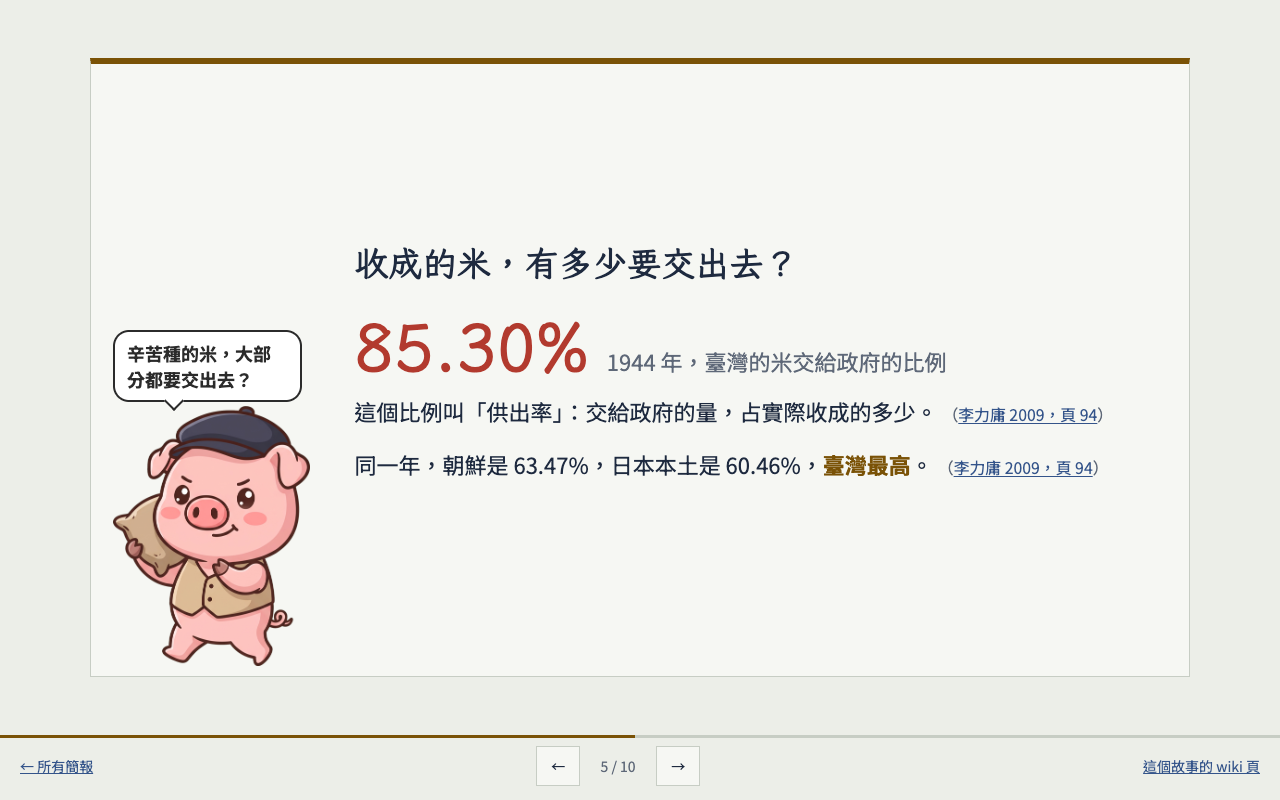
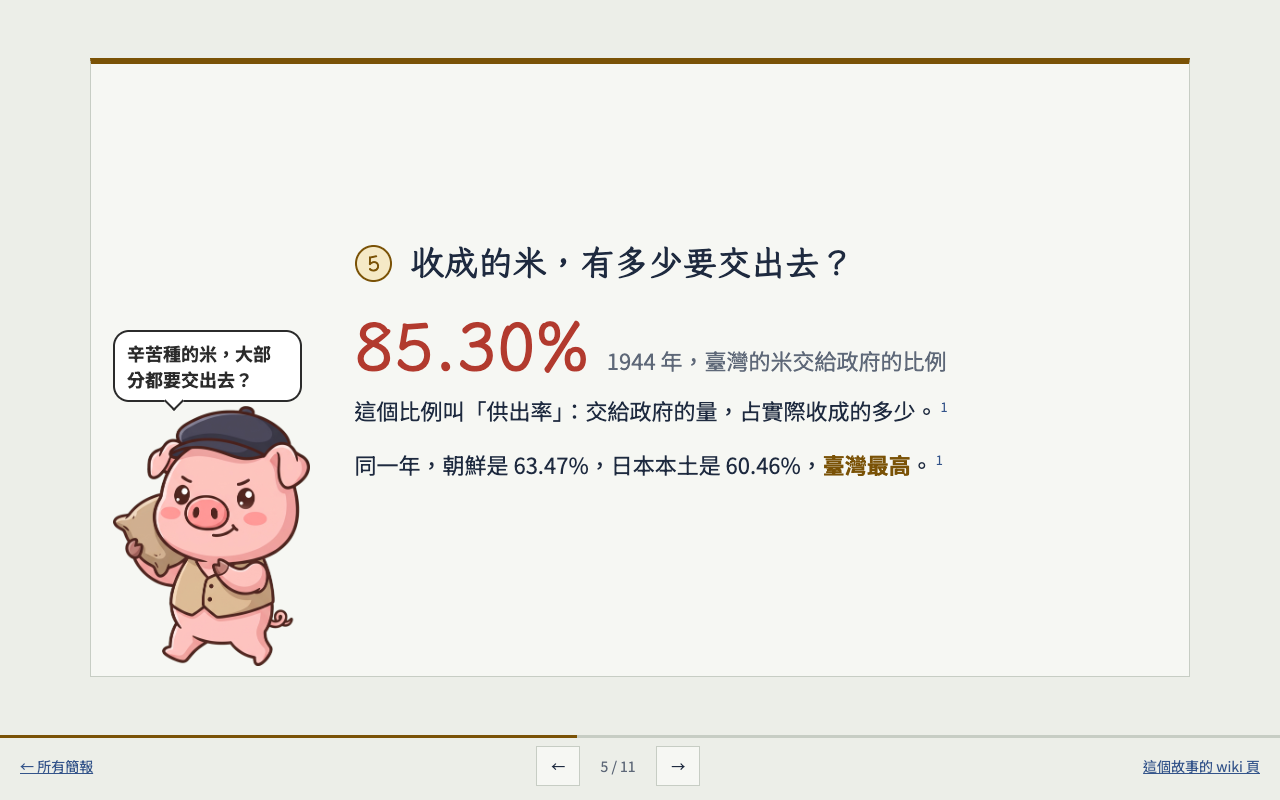
出處改為上標編號＋最後一頁資料來源；標題加配給印頁碼

diff --git a/slides/t-rice-ration/deck.html b/slides/t-rice-ration/deck.html
@@ -27,10 +27,24 @@ body{display:flex;flex-direction:column;overflow:hidden}
 .inner{flex:1;overflow:hidden;padding:44px 64px;display:flex;flex-direction:column;justify-content:center;font-size:clamp(17px,1.75vw,22px);line-height:1.75}
 h1,h2{font-family:var(--kai);font-weight:700;line-height:1.3;margin:0 0 .7em;text-wrap:balance}
 h1{font-size:2.3em} h2{font-size:1.55em;color:var(--ink)}
-p{margin:0 0 .65em;max-width:40em} strong{color:var(--cat-ink)}
-.cites{font-size:.72em;color:var(--muted);white-space:normal}
-.cite{color:var(--indigo);text-decoration:underline;text-underline-offset:2px}
-.cite:hover{color:var(--ink)}
+p{margin:0 0 .7em;max-width:36em} strong{color:var(--cat-ink)}
+/* 出處：句尾小上標，點了到最後的資料來源頁 */
+.fns{font-size:.58em;line-height:0;margin-left:.15em;font-family:var(--sans);font-weight:400;color:var(--muted)}
+.nb{white-space:nowrap}
+.fn{color:var(--indigo);text-decoration:none;padding:0 .08em}
+.fn:hover{text-decoration:underline}
+/* 頁碼印：每頁標題前一個圓形配給印，全份簡報唯一的裝飾 */
+h2{display:flex;align-items:center;gap:.55em}
+h2 .no{flex:none;width:1.75em;height:1.75em;border-radius:50%;border:2px solid var(--cat-ink);color:var(--cat-ink);display:grid;place-items:center;
+  font-size:.62em;font-variant-numeric:tabular-nums;transform:rotate(-8deg);background:color-mix(in srgb,var(--cat-tint) 45%,transparent)}
+/* 資料來源頁 */
+.layout-sources .inner{font-size:clamp(13px,1.25vw,16px);line-height:1.5;justify-content:flex-start;padding:30px 56px}
+.src-hint{color:var(--muted);font-size:.9em;margin-bottom:.9em}
+ol.srcs{list-style:none;margin:0;padding:0;display:grid;grid-template-columns:1fr 1fr;gap:.7em 2em}
+ol.srcs li{display:grid;grid-template-columns:2em 1fr;gap:.4em}
+.src-no{color:var(--indigo);font-weight:700;font-variant-numeric:tabular-nums}
+.src-t{margin:0;font-weight:700} .src-m{margin:0;color:var(--muted);font-size:.9em}
+.src-m a{color:var(--indigo)}
 /* 封面：配給券 */
 .cover{display:grid;grid-template-columns:1.2fr 1fr;gap:36px;align-items:center;height:100%}
 .ticket{display:flex;gap:22px;align-items:flex-start;background:var(--cat-tint);padding:28px 30px;border-left:2px dashed var(--cat-ink)}
@@ -63,7 +77,7 @@ figcaption{font-size:.8em;color:var(--muted)}
 .nav{display:flex;align-items:center;gap:10px}
 .nav button{font:inherit;color:var(--ink);background:var(--sheet);border:1px solid var(--line);min-width:44px;min-height:40px;cursor:pointer}
 .nav button:disabled{opacity:.4;cursor:default}
-.nav button:focus-visible,.cite:focus-visible,summary:focus-visible{outline:2px solid var(--indigo);outline-offset:2px}
+.nav button:focus-visible,.fn:focus-visible,.src-m a:focus-visible,summary:focus-visible{outline:2px solid var(--indigo);outline-offset:2px}
 .count{font-variant-numeric:tabular-nums;min-width:4em;text-align:center}
 .progress{height:3px;background:var(--line)} .progress span{display:block;height:100%;background:var(--cat-ink);transition:width .2s}
 @media (prefers-reduced-motion:reduce){.progress span{transition:none}}
@@ -100,22 +114,23 @@ figcaption{font-size:.8em;color:var(--muted)}
 <body data-cat="rice">
 <main class="deck" id="deck">
 <section class="slide layout-cover" id="p1" aria-label="第 1 頁"><div class="inner"><div class="cover"><div class="ticket"><span class="stub">主</span><div><p class="series">戰時餐桌・故事簡報</p><h1>一天能吃多少米？</h1><p class="sub">1940 年起，農家多的米要交給政府，大家吃的米由政府來分配。</p><p class="meta">臺灣 1939–1945　·　共 10 頁　·　用 ← → 或滑動翻頁</p></div></div><img class="cover-img" src="../../assets/img/t-rice-ration.jpg" alt="木刻版畫風插畫：田邊的收購場，農民挑著稻穀排隊，辦事員用大秤秤重、登記。"></div></div></section>
-<section class="slide layout-goals" data-mascot="../../assets/mascots/sweetpotato/wave.png" data-spot="br" data-say="我是番薯仔，帶你看戰爭時的米！" id="p2" aria-label="第 2 頁"><div class="inner"><h2>看完這份簡報，你能……</h2><ol class='goals'><li>說得出 1940 年起，米從農家到餐桌要經過哪些關卡</li><li>能舉出一個數字，說明配給的「標準」和人們「實際」拿到的差多少</li><li>能說出兩種人們面對配給不足的應變方法</li></ol></div></section>
-<section class="slide layout-text" id="p3" aria-label="第 3 頁"><div class="inner"><h2>為什麼 1940 年開始管米？</h2><p>1939 年朝鮮大旱，隔年朝鮮運到日本的米，從 5,690 千石掉到 395 千石（石是當時量米的容量單位）。 <span class="cites">（<a class="cite" href="https://github.com/YuCecil/wartime-food-wiki/blob/main/wiki/sources/s-2009-li-grain-regulation.md" target="_blank" rel="noopener">李力庸 2009，頁 77</a>）</span></p><p>日本只好要臺灣補上缺口：1940 年臺灣要運出 5,000 千石，比前一年更多。 <span class="cites">（<a class="cite" href="https://github.com/YuCecil/wartime-food-wiki/blob/main/wiki/sources/s-2009-li-grain-regulation.md" target="_blank" rel="noopener">李力庸 2009，頁 77–78</a>）</span></p><p>同年 5 月，臺灣總督府宣布：一期稻作的米全部由政府管理。 <span class="cites">（<a class="cite" href="https://github.com/YuCecil/wartime-food-wiki/blob/main/wiki/sources/s-2017-huang-wartime-food-management.md" target="_blank" rel="noopener">黃仁姿 2017，頁 46–47</a>）</span></p><p>日本本土要到 10 月才跟進，<strong>殖民地反而比本土早一步</strong>。 <span class="cites">（<a class="cite" href="https://github.com/YuCecil/wartime-food-wiki/blob/main/wiki/sources/s-2017-huang-wartime-food-management.md" target="_blank" rel="noopener">黃仁姿 2017，頁 47</a>）</span></p></div></section>
-<section class="slide layout-text" data-mascot="../../assets/mascots/pig/ticket.png" data-spot="br" data-say="有這張券，才買得到米喔！" id="p4" aria-label="第 4 頁"><div class="inner"><h2>米從田裡到餐桌的關卡</h2><p><strong>收米</strong>：農家扣掉自己要吃的和種子，其餘由政府用公定價格強制收購。 <span class="cites">（<a class="cite" href="https://github.com/YuCecil/wartime-food-wiki/blob/main/wiki/sources/s-2017-tseng-table-war.md" target="_blank" rel="noopener">曾品滄 2017，頁 9</a>）</span></p><p><strong>綁住</strong>：沒交足規定的量，就領不到配給。 <span class="cites">（<a class="cite" href="https://github.com/YuCecil/wartime-food-wiki/blob/main/wiki/sources/s-2015-tseng-postwar-food-control.md" target="_blank" rel="noopener">曾獻緯 2015，頁 59</a>）</span></p><p><strong>盯著</strong>：經濟警察負責確保糧食配給、限制自由買賣。 <span class="cites">（<a class="cite" href="https://github.com/YuCecil/wartime-food-wiki/blob/main/wiki/sources/s-2025-lu-police-society.md" target="_blank" rel="noopener">陸文楓 2025，頁 47</a>）</span></p><p><strong>分米</strong>：1943 年底起，配給交給新成立、專管糧食配給的「台灣食糧營團」，收購由農業會負責。 <span class="cites">（<a class="cite" href="https://github.com/YuCecil/wartime-food-wiki/blob/main/wiki/sources/s-2019-huang-irrigation-farm-org.md" target="_blank" rel="noopener">黃仁姿、薛化元 2019，頁 133</a>；<a class="cite" href="https://github.com/YuCecil/wartime-food-wiki/blob/main/wiki/sources/s-2009-li-grain-regulation.md" target="_blank" rel="noopener">李力庸 2009，頁 97</a>）</span></p><p><strong>買米</strong>：一般家庭拿著配給券，大約一個月去買兩次米。 <span class="cites">（<a class="cite" href="https://github.com/YuCecil/wartime-food-wiki/blob/main/wiki/sources/s-2009-li-grain-regulation.md" target="_blank" rel="noopener">李力庸 2009，頁 93</a>）</span></p></div></section>
-<section class="slide layout-number" data-mascot="../../assets/mascots/pig/sack.png" data-spot="bl" data-say="辛苦種的米，大部分都要交出去？" id="p5" aria-label="第 5 頁"><div class="inner"><h2>收成的米，有多少要交出去？</h2><p class="big"><span class="stamp-num">85.30%</span><span class="big-label">1944 年，臺灣的米交給政府的比例</span></p><p>這個比例叫「供出率」：交給政府的量，占實際收成的多少。 <span class="cites">（<a class="cite" href="https://github.com/YuCecil/wartime-food-wiki/blob/main/wiki/sources/s-2009-li-grain-regulation.md" target="_blank" rel="noopener">李力庸 2009，頁 94</a>）</span></p><p>同一年，朝鮮是 63.47%，日本本土是 60.46%，<strong>臺灣最高</strong>。 <span class="cites">（<a class="cite" href="https://github.com/YuCecil/wartime-food-wiki/blob/main/wiki/sources/s-2009-li-grain-regulation.md" target="_blank" rel="noopener">李力庸 2009，頁 94</a>）</span></p></div></section>
-<section class="slide layout-number" id="p6" aria-label="第 6 頁"><div class="inner"><h2>一般成年人一天配到多少米？</h2><p class="big"><span class="stamp-num">330 公克</span><span class="big-label">1942 年起，一般成年人每天的配給標準（七分搗米）</span></p><p>米的配給量，最初是照營養學家推算的每日所需熱量的<strong>八成</strong>來訂的。 <span class="cites">（<a class="cite" href="https://github.com/YuCecil/wartime-food-wiki/blob/main/wiki/sources/s-2017-tseng-table-war.md" target="_blank" rel="noopener">曾品滄 2017，頁 10</a>）</span></p><p>工作越重配越多：重勞動者 520 公克，輕勞動者、青少年、孕婦 390 公克。 <span class="cites">（<a class="cite" href="https://github.com/YuCecil/wartime-food-wiki/blob/main/wiki/sources/s-2017-tseng-table-war.md" target="_blank" rel="noopener">曾品滄 2017，頁 10</a>）</span></p><p>330 公克的七分搗米約是 2 合 3 勺；臺灣用糙米（只去殼、沒碾白的米）計算，就是 <strong>2 合 5 勺</strong>。 <span class="cites">（<a class="cite" href="https://github.com/YuCecil/wartime-food-wiki/blob/main/wiki/sources/s-2017-huang-wartime-food-management.md" target="_blank" rel="noopener">黃仁姿 2017，頁 41 註 17</a>）</span></p></div></section>
-<section class="slide layout-text" data-mascot="../../assets/mascots/rice/bowl.png" data-spot="br" data-say="碗裡的飯，怎麼越來越少……" id="p7" aria-label="第 7 頁"><div class="inner"><h2>標準一路往下砍，實際拿到的更少</h2><p>標準：一般人每天糙米 2 合 5 勺，寫成小數是 2.50 合（「勺」是比「合」小的單位）。 <span class="cites">（<a class="cite" href="https://github.com/YuCecil/wartime-food-wiki/blob/main/wiki/sources/s-2017-tseng-table-war.md" target="_blank" rel="noopener">曾品滄 2017，頁 10</a>；<a class="cite" href="https://github.com/YuCecil/wartime-food-wiki/blob/main/wiki/sources/s-2017-huang-wartime-food-management.md" target="_blank" rel="noopener">黃仁姿 2017，頁 51</a>）</span></p><p>1940 年 3 月，新竹市把一般人的配給從 2 合 5 勺減成 2 合 2 勺。 <span class="cites">（<a class="cite" href="https://github.com/YuCecil/wartime-food-wiki/blob/main/wiki/sources/s-2017-tseng-table-war.md" target="_blank" rel="noopener">曾品滄 2017，頁 11</a>）</span></p><p>4 月，澎湖一般人只配 2 合，產米的屏東更只有 1.7 合。 <span class="cites">（<a class="cite" href="https://github.com/YuCecil/wartime-food-wiki/blob/main/wiki/sources/s-2017-tseng-table-war.md" target="_blank" rel="noopener">曾品滄 2017，頁 11</a>）</span></p><p>1945 年第一期稻作起，連標準也降：一般消費者再減一成五。 <span class="cites">（<a class="cite" href="https://github.com/YuCecil/wartime-food-wiki/blob/main/wiki/sources/s-2017-huang-wartime-food-management.md" target="_blank" rel="noopener">黃仁姿 2017，頁 50 註 44</a>）</span></p><p>1944 至 1945 年，各地居民實際配到的米常低於二合五勺的標準，<strong>比在臺日本人還少</strong>。 <span class="cites">（<a class="cite" href="https://github.com/YuCecil/wartime-food-wiki/blob/main/wiki/sources/s-2013-tseng-hometown.md" target="_blank" rel="noopener">曾品滄 2013，頁 130</a>）</span></p></div></section>
-<section class="slide layout-compare" id="p8" aria-label="第 8 頁"><div class="inner"><h2>帳面上夠吃，生活裡不夠吃？</h2><div class="compare"><div class="side"><p class="who">一種說法</p><p>歷史學者黃仁姿用統計推算，到 1944 年為止臺灣的米都還有剩，1945 年才不足將近 160 萬石。 <span class="cites">（<a class="cite" href="https://github.com/YuCecil/wartime-food-wiki/blob/main/wiki/sources/s-2017-huang-wartime-food-management.md" target="_blank" rel="noopener">黃仁姿 2017，頁 64</a>）</span></p></div><div class="side"><p class="who">另一種說法</p><p>歷史學者曾獻緯寫道，配給的食物總是不夠，有時一連幾天用地瓜或麵包代替三餐。 <span class="cites">（<a class="cite" href="https://github.com/YuCecil/wartime-food-wiki/blob/main/wiki/sources/s-2015-tseng-postwar-food-control.md" target="_blank" rel="noopener">曾獻緯 2015，頁 59</a>）</span></p></div></div><p>黃仁姿自己也注意到這個落差：一個月份的配給米，往往只撐二十多天。 <span class="cites">（<a class="cite" href="https://github.com/YuCecil/wartime-food-wiki/blob/main/wiki/sources/s-2017-huang-wartime-food-management.md" target="_blank" rel="noopener">黃仁姿 2017，頁 65</a>）</span></p><p>米去了哪裡？她推測可能流向軍隊：終戰前在臺陸軍約 30 萬人。 <span class="cites">（<a class="cite" href="https://github.com/YuCecil/wartime-food-wiki/blob/main/wiki/sources/s-2017-huang-wartime-food-management.md" target="_blank" rel="noopener">黃仁姿 2017，頁 63 註 83</a>）</span></p></div></section>
-<section class="slide layout-text" data-mascot="../../assets/mascots/sweetpotato/pointer.png" data-spot="br" data-say="米不夠，就換番薯上場！" id="p9" aria-label="第 9 頁"><div class="inner"><h2>米不夠吃，大家怎麼辦？</h2><p><strong>吃番薯</strong>：1944 年臺灣的番薯只交出 6.28%，作者推測大家用大量番薯代替米。 <span class="cites">（<a class="cite" href="https://github.com/YuCecil/wartime-food-wiki/blob/main/wiki/sources/s-2009-li-grain-regulation.md" target="_blank" rel="noopener">李力庸 2009，頁 94</a>）</span></p><p>住在臺中霧峰的林獻堂在日記裡寫，配給米減了兩成，「非以蕃薯代用不可」。 <span class="cites">（<a class="cite" href="https://github.com/YuCecil/wartime-food-wiki/blob/main/wiki/sources/s-2017-tseng-table-war.md" target="_blank" rel="noopener">曾品滄 2017，頁 11–12</a>）</span></p><p><strong>找黑市</strong>：配給米不夠，就透過黑市買，或在飯裡摻番薯籤。 <span class="cites">（<a class="cite" href="https://github.com/YuCecil/wartime-food-wiki/blob/main/wiki/sources/s-2017-huang-wartime-food-management.md" target="_blank" rel="noopener">黃仁姿 2017，頁 65</a>）</span></p><p><strong>藏起來</strong>：佃農會把粟（稻穀）藏起來。張文環想用義勇報國隊的名義去搜，林獻堂勸他別用這個名義，怕惹人怨恨。 <span class="cites">（<a class="cite" href="https://github.com/YuCecil/wartime-food-wiki/blob/main/wiki/sources/s-2025-lu-police-society.md" target="_blank" rel="noopener">陸文楓 2025，頁 53</a>）</span></p><p>義勇報國隊是總督府 1944 年 8 月底打算設立的民兵組織。 <span class="cites">（<a class="cite" href="https://github.com/YuCecil/wartime-food-wiki/blob/main/wiki/sources/s-2025-lu-police-society.md" target="_blank" rel="noopener">陸文楓 2025，頁 52</a>）</span></p></div></section>
-<section class="slide layout-check" data-mascot="../../assets/mascots/rice/ask.png" data-spot="bl" data-say="答不出來？回前面找找看！" id="p10" aria-label="第 10 頁"><div class="inner"><h2>自我檢查</h2><ol class='qa'><li><p>戰爭末期（1943 年底以後），一般家庭怎麼拿到米？</p><details><summary>看答案</summary><p>農家的米由政府收購，交給食糧營團配給，家庭拿配給券去買。（第 4 頁）</p></details></li><li><p>1940 年起一般人每天的配給標準是多少？哪裡配得比標準少？</p><details><summary>看答案</summary><p>標準是糙米 2 合 5 勺；1940 年新竹減成 2 合 2 勺，澎湖 2 合，屏東只有 1.7 合。（第 7 頁）</p></details></li><li><p>舉出兩種人們面對配給不足的辦法。</p><details><summary>看答案</summary><p>用番薯代替米、到黑市買、在飯裡摻番薯籤、把稻穀藏起來（任兩種）。（第 9 頁）</p></details></li></ol></div></section>
+<section class="slide layout-goals" data-mascot="../../assets/mascots/sweetpotato/wave.png" data-spot="br" data-say="我是番薯仔，帶你看戰爭時的米！" id="p2" aria-label="第 2 頁"><div class="inner"><h2><span class="no" aria-hidden="true">2</span>看完這份簡報，你能……</h2><ol class='goals'><li>說得出 1940 年起，米從農家到餐桌要經過哪些關卡</li><li>能舉出一個數字，說明配給的「標準」和人們「實際」拿到的差多少</li><li>能說出兩種人們面對配給不足的應變方法</li></ol></div></section>
+<section class="slide layout-text" id="p3" aria-label="第 3 頁"><div class="inner"><h2><span class="no" aria-hidden="true">3</span>為什麼 1940 年開始管米？</h2><p>1939 年朝鮮大旱，隔年朝鮮運到日本的米，從 5,690 千石掉到 395 千石（石是當時量米的容量單位）<span class="nb">。<sup class="fns"><a class="fn" href="#sources" title="李力庸 2009，頁 77">1</a></sup></span></p><p>日本只好要臺灣補上缺口：1940 年臺灣要運出 5,000 千石，比前一年更多<span class="nb">。<sup class="fns"><a class="fn" href="#sources" title="李力庸 2009，頁 77–78">1</a></sup></span></p><p>同年 5 月，臺灣總督府宣布：一期稻作的米全部由政府管理<span class="nb">。<sup class="fns"><a class="fn" href="#sources" title="黃仁姿 2017，頁 46–47">2</a></sup></span></p><p>日本本土要到 10 月才跟進，<strong>殖民地反而比本土早一步</strong><span class="nb">。<sup class="fns"><a class="fn" href="#sources" title="黃仁姿 2017，頁 47">2</a></sup></span></p></div></section>
+<section class="slide layout-text" data-mascot="../../assets/mascots/pig/ticket.png" data-spot="br" data-say="有這張券，才買得到米喔！" id="p4" aria-label="第 4 頁"><div class="inner"><h2><span class="no" aria-hidden="true">4</span>米從田裡到餐桌的關卡</h2><p><strong>收米</strong>：農家扣掉自己要吃的和種子，其餘由政府用公定價格強制收購<span class="nb">。<sup class="fns"><a class="fn" href="#sources" title="曾品滄 2017，頁 9">3</a></sup></span></p><p><strong>綁住</strong>：沒交足規定的量，就領不到配給<span class="nb">。<sup class="fns"><a class="fn" href="#sources" title="曾獻緯 2015，頁 59">4</a></sup></span></p><p><strong>盯著</strong>：經濟警察負責確保糧食配給、限制自由買賣<span class="nb">。<sup class="fns"><a class="fn" href="#sources" title="陸文楓 2025，頁 47">5</a></sup></span></p><p><strong>分米</strong>：1943 年底起，配給交給新成立、專管糧食配給的「台灣食糧營團」，收購由農業會負責<span class="nb">。<sup class="fns"><a class="fn" href="#sources" title="李力庸 2009，頁 97">1</a>,<a class="fn" href="#sources" title="黃仁姿、薛化元 2019，頁 133">6</a></sup></span></p><p><strong>買米</strong>：一般家庭拿著配給券，大約一個月去買兩次米<span class="nb">。<sup class="fns"><a class="fn" href="#sources" title="李力庸 2009，頁 93">1</a></sup></span></p></div></section>
+<section class="slide layout-number" data-mascot="../../assets/mascots/pig/sack.png" data-spot="bl" data-say="辛苦種的米，大部分都要交出去？" id="p5" aria-label="第 5 頁"><div class="inner"><h2><span class="no" aria-hidden="true">5</span>收成的米，有多少要交出去？</h2><p class="big"><span class="stamp-num">85.30%</span><span class="big-label">1944 年，臺灣的米交給政府的比例</span></p><p>這個比例叫「供出率」：交給政府的量，占實際收成的多少<span class="nb">。<sup class="fns"><a class="fn" href="#sources" title="李力庸 2009，頁 94">1</a></sup></span></p><p>同一年，朝鮮是 63.47%，日本本土是 60.46%，<strong>臺灣最高</strong><span class="nb">。<sup class="fns"><a class="fn" href="#sources" title="李力庸 2009，頁 94">1</a></sup></span></p></div></section>
+<section class="slide layout-number" id="p6" aria-label="第 6 頁"><div class="inner"><h2><span class="no" aria-hidden="true">6</span>一般成年人一天配到多少米？</h2><p class="big"><span class="stamp-num">330 公克</span><span class="big-label">1942 年起，一般成年人每天的配給標準（七分搗米）</span></p><p>米的配給量，最初是照營養學家推算的每日所需熱量的<strong>八成</strong>來訂的<span class="nb">。<sup class="fns"><a class="fn" href="#sources" title="曾品滄 2017，頁 10">3</a></sup></span></p><p>工作越重配越多：重勞動者 520 公克，輕勞動者、青少年、孕婦 390 公克<span class="nb">。<sup class="fns"><a class="fn" href="#sources" title="曾品滄 2017，頁 10">3</a></sup></span></p><p>330 公克的七分搗米約是 2 合 3 勺；臺灣用糙米（只去殼、沒碾白的米）計算，就是 <strong>2 合 5 勺</strong><span class="nb">。<sup class="fns"><a class="fn" href="#sources" title="黃仁姿 2017，頁 41 註 17">2</a></sup></span></p></div></section>
+<section class="slide layout-text" data-mascot="../../assets/mascots/rice/bowl.png" data-spot="br" data-say="碗裡的飯，怎麼越來越少……" id="p7" aria-label="第 7 頁"><div class="inner"><h2><span class="no" aria-hidden="true">7</span>標準一路往下砍，實際拿到的更少</h2><p>標準：一般人每天糙米 2 合 5 勺，寫成小數是 2.50 合（「勺」是比「合」小的單位）<span class="nb">。<sup class="fns"><a class="fn" href="#sources" title="黃仁姿 2017，頁 51">2</a>,<a class="fn" href="#sources" title="曾品滄 2017，頁 10">3</a></sup></span></p><p>1940 年 3 月，新竹市把一般人的配給從 2 合 5 勺減成 2 合 2 勺<span class="nb">。<sup class="fns"><a class="fn" href="#sources" title="曾品滄 2017，頁 11">3</a></sup></span></p><p>4 月，澎湖一般人只配 2 合，產米的屏東更只有 1.7 合<span class="nb">。<sup class="fns"><a class="fn" href="#sources" title="曾品滄 2017，頁 11">3</a></sup></span></p><p>1945 年第一期稻作起，連標準也降：一般消費者再減一成五<span class="nb">。<sup class="fns"><a class="fn" href="#sources" title="黃仁姿 2017，頁 50 註 44">2</a></sup></span></p><p>1944 至 1945 年，各地居民實際配到的米常低於二合五勺的標準，<strong>比在臺日本人還少</strong><span class="nb">。<sup class="fns"><a class="fn" href="#sources" title="曾品滄 2013，頁 130">7</a></sup></span></p></div></section>
+<section class="slide layout-compare" id="p8" aria-label="第 8 頁"><div class="inner"><h2><span class="no" aria-hidden="true">8</span>帳面上夠吃，生活裡不夠吃？</h2><div class="compare"><div class="side"><p class="who">一種說法</p><p>歷史學者黃仁姿用統計推算，到 1944 年為止臺灣的米都還有剩，1945 年才不足將近 160 萬石<span class="nb">。<sup class="fns"><a class="fn" href="#sources" title="黃仁姿 2017，頁 64">2</a></sup></span></p></div><div class="side"><p class="who">另一種說法</p><p>歷史學者曾獻緯寫道，配給的食物總是不夠，有時一連幾天用地瓜或麵包代替三餐<span class="nb">。<sup class="fns"><a class="fn" href="#sources" title="曾獻緯 2015，頁 59">4</a></sup></span></p></div></div><p>黃仁姿自己也注意到這個落差：一個月份的配給米，往往只撐二十多天<span class="nb">。<sup class="fns"><a class="fn" href="#sources" title="黃仁姿 2017，頁 65">2</a></sup></span></p><p>米去了哪裡？她推測可能流向軍隊：終戰前在臺陸軍約 30 萬人<span class="nb">。<sup class="fns"><a class="fn" href="#sources" title="黃仁姿 2017，頁 63 註 83">2</a></sup></span></p></div></section>
+<section class="slide layout-text" data-mascot="../../assets/mascots/sweetpotato/pointer.png" data-spot="br" data-say="米不夠，就換番薯上場！" id="p9" aria-label="第 9 頁"><div class="inner"><h2><span class="no" aria-hidden="true">9</span>米不夠吃，大家怎麼辦？</h2><p><strong>吃番薯</strong>：1944 年臺灣的番薯只交出 6.28%，作者推測大家用大量番薯代替米<span class="nb">。<sup class="fns"><a class="fn" href="#sources" title="李力庸 2009，頁 94">1</a></sup></span></p><p>住在臺中霧峰的林獻堂在日記裡寫，配給米減了兩成，「非以蕃薯代用不可」<span class="nb">。<sup class="fns"><a class="fn" href="#sources" title="曾品滄 2017，頁 11–12">3</a></sup></span></p><p><strong>找黑市</strong>：配給米不夠，就透過黑市買，或在飯裡摻番薯籤<span class="nb">。<sup class="fns"><a class="fn" href="#sources" title="黃仁姿 2017，頁 65">2</a></sup></span></p><p><strong>藏起來</strong>：佃農會把粟（稻穀）藏起來。張文環想用義勇報國隊的名義去搜，林獻堂勸他別用這個名義，怕惹人怨恨<span class="nb">。<sup class="fns"><a class="fn" href="#sources" title="陸文楓 2025，頁 53">5</a></sup></span></p><p>義勇報國隊是總督府 1944 年 8 月底打算設立的民兵組織<span class="nb">。<sup class="fns"><a class="fn" href="#sources" title="陸文楓 2025，頁 52">5</a></sup></span></p></div></section>
+<section class="slide layout-check" data-mascot="../../assets/mascots/rice/ask.png" data-spot="bl" data-say="答不出來？回前面找找看！" id="p10" aria-label="第 10 頁"><div class="inner"><h2><span class="no" aria-hidden="true">10</span>自我檢查</h2><ol class='qa'><li><p>戰爭末期（1943 年底以後），一般家庭怎麼拿到米？</p><details><summary>看答案</summary><p>農家的米由政府收購，交給食糧營團配給，家庭拿配給券去買。（第 4 頁）</p></details></li><li><p>1940 年起一般人每天的配給標準是多少？哪裡配得比標準少？</p><details><summary>看答案</summary><p>標準是糙米 2 合 5 勺；1940 年新竹減成 2 合 2 勺，澎湖 2 合，屏東只有 1.7 合。（第 7 頁）</p></details></li><li><p>舉出兩種人們面對配給不足的辦法。</p><details><summary>看答案</summary><p>用番薯代替米、到黑市買、在飯裡摻番薯籤、把稻穀藏起來（任兩種）。（第 9 頁）</p></details></li></ol></div></section>
+<section class="slide layout-sources" id="sources" aria-label="第 11 頁：資料來源"><div class="inner"><h2><span class="no" aria-hidden="true">11</span>資料來源</h2><p class="src-hint">內文句尾的小數字對應這裡的編號；滑鼠停在數字上可看到頁碼。</p><ol class="srcs"><li><span class="src-no">1</span><div><p class="src-t">李力庸（2009）〈日本帝國殖民地的戰時糧食統制體制：臺灣與朝鮮的比較研究（1937-1945）〉</p><p class="src-m">臺灣史研究 16:2（頁 63-104）　這份簡報用到：頁 77、77–78、97、93、94　<a href="https://github.com/YuCecil/wartime-food-wiki/blob/main/wiki/sources/s-2009-li-grain-regulation.md" target="_blank" rel="noopener">資料卡</a></p></div></li><li><span class="src-no">2</span><div><p class="src-t">黃仁姿（2017）〈戰爭與糧食：二戰期間臺灣糧食管理體制的建構（1939-1945）〉</p><p class="src-m">國史館館刊 52（頁 33-72）　這份簡報用到：頁 46–47、47、41 註 17、51、50 註 44、64、65、63 註 83　<a href="https://github.com/YuCecil/wartime-food-wiki/blob/main/wiki/sources/s-2017-huang-wartime-food-management.md" target="_blank" rel="noopener">資料卡</a></p></div></li><li><span class="src-no">3</span><div><p class="src-t">曾品滄（2017）〈餐桌上的戰爭：日治末期臺灣的食物配給、黑市與殖民地社會〉</p><p class="src-m">新史學 28卷4期，頁1–42　這份簡報用到：頁 9、10、11、11–12　<a href="https://github.com/YuCecil/wartime-food-wiki/blob/main/wiki/sources/s-2017-tseng-table-war.md" target="_blank" rel="noopener">資料卡</a></p></div></li><li><span class="src-no">4</span><div><p class="src-t">曾獻緯（2015）〈戰後初期臺灣的糧食管制（1945-1949）〉</p><p class="src-m">臺灣文獻 66:3（頁 53-102）　這份簡報用到：頁 59　<a href="https://github.com/YuCecil/wartime-food-wiki/blob/main/wiki/sources/s-2015-tseng-postwar-food-control.md" target="_blank" rel="noopener">資料卡</a></p></div></li><li><span class="src-no">5</span><div><p class="src-t">陸文楓（2025）〈戰時至接收時期的臺灣警察與社會（1937-1947）〉</p><p class="src-m">中興史學 22（頁 39-95）　這份簡報用到：頁 47、53、52　<a href="https://github.com/YuCecil/wartime-food-wiki/blob/main/wiki/sources/s-2025-lu-police-society.md" target="_blank" rel="noopener">資料卡</a></p></div></li><li><span class="src-no">6</span><div><p class="src-t">黃仁姿、薛化元（2019）〈戰時與戰後初期台灣農業組織的調整與變革（1941-1948）〉</p><p class="src-m">國立政治大學歷史學報 51（頁 121-172）　這份簡報用到：頁 133　<a href="https://github.com/YuCecil/wartime-food-wiki/blob/main/wiki/sources/s-2019-huang-irrigation-farm-org.md" target="_blank" rel="noopener">資料卡</a></p></div></li><li><span class="src-no">7</span><div><p class="src-t">曾品滄（2013）〈鄉土食和山水亭：戰爭期間「臺灣料理」的發展（1937-1945）〉</p><p class="src-m">中國飲食文化 9(1)（頁 113-156）　這份簡報用到：頁 130　<a href="https://github.com/YuCecil/wartime-food-wiki/blob/main/wiki/sources/s-2013-tseng-hometown.md" target="_blank" rel="noopener">資料卡</a></p></div></li></ol></div></section>
 </main>
 <div class="progress" aria-hidden="true"><span id="prog"></span></div>
 <nav class="bar" aria-label="翻頁">
   <a href="../../index.html">← 所有簡報</a>
   <div class="nav">
     <button id="prev" aria-label="上一頁">←</button>
-    <span class="count" id="count" aria-live="polite">1 / 10</span>
+    <span class="count" id="count" aria-live="polite">1 / 11</span>
     <button id="next" aria-label="下一頁">→</button>
   </div>
   <a class="wiki" href="https://github.com/YuCecil/wartime-food-wiki/blob/main/wiki/topics/t-rice-ration.md" target="_blank" rel="noopener">這個故事的 wiki 頁</a>
@@ -156,6 +171,7 @@ function placeMascot(s,n){const src=s.dataset.mascot;if(!src||s.dataset.placed)r
     box.remove();};}
 const _go=go;go=function(n){_go(n);placeMascot(slides[cur-1],cur)};
 placeMascot(slides[cur-1],cur);
+document.addEventListener('click',e=>{const a=e.target.closest('.fn');if(a){e.preventDefault();go(slides.length)}});
 </script>
 </body>
 </html>

diff --git a/templates/deck.html b/templates/deck.html
@@ -27,10 +27,24 @@ body{display:flex;flex-direction:column;overflow:hidden}
 .inner{flex:1;overflow:hidden;padding:44px 64px;display:flex;flex-direction:column;justify-content:center;font-size:clamp(17px,1.75vw,22px);line-height:1.75}
 h1,h2{font-family:var(--kai);font-weight:700;line-height:1.3;margin:0 0 .7em;text-wrap:balance}
 h1{font-size:2.3em} h2{font-size:1.55em;color:var(--ink)}
-p{margin:0 0 .65em;max-width:40em} strong{color:var(--cat-ink)}
-.cites{font-size:.72em;color:var(--muted);white-space:normal}
-.cite{color:var(--indigo);text-decoration:underline;text-underline-offset:2px}
-.cite:hover{color:var(--ink)}
+p{margin:0 0 .7em;max-width:36em} strong{color:var(--cat-ink)}
+/* 出處：句尾小上標，點了到最後的資料來源頁 */
+.fns{font-size:.58em;line-height:0;margin-left:.15em;font-family:var(--sans);font-weight:400;color:var(--muted)}
+.nb{white-space:nowrap}
+.fn{color:var(--indigo);text-decoration:none;padding:0 .08em}
+.fn:hover{text-decoration:underline}
+/* 頁碼印：每頁標題前一個圓形配給印，全份簡報唯一的裝飾 */
+h2{display:flex;align-items:center;gap:.55em}
+h2 .no{flex:none;width:1.75em;height:1.75em;border-radius:50%;border:2px solid var(--cat-ink);color:var(--cat-ink);display:grid;place-items:center;
+  font-size:.62em;font-variant-numeric:tabular-nums;transform:rotate(-8deg);background:color-mix(in srgb,var(--cat-tint) 45%,transparent)}
+/* 資料來源頁 */
+.layout-sources .inner{font-size:clamp(13px,1.25vw,16px);line-height:1.5;justify-content:flex-start;padding:30px 56px}
+.src-hint{color:var(--muted);font-size:.9em;margin-bottom:.9em}
+ol.srcs{list-style:none;margin:0;padding:0;display:grid;grid-template-columns:1fr 1fr;gap:.7em 2em}
+ol.srcs li{display:grid;grid-template-columns:2em 1fr;gap:.4em}
+.src-no{color:var(--indigo);font-weight:700;font-variant-numeric:tabular-nums}
+.src-t{margin:0;font-weight:700} .src-m{margin:0;color:var(--muted);font-size:.9em}
+.src-m a{color:var(--indigo)}
 /* 封面：配給券 */
 .cover{display:grid;grid-template-columns:1.2fr 1fr;gap:36px;align-items:center;height:100%}
 .ticket{display:flex;gap:22px;align-items:flex-start;background:var(--cat-tint);padding:28px 30px;border-left:2px dashed var(--cat-ink)}
@@ -63,7 +77,7 @@ figcaption{font-size:.8em;color:var(--muted)}
 .nav{display:flex;align-items:center;gap:10px}
 .nav button{font:inherit;color:var(--ink);background:var(--sheet);border:1px solid var(--line);min-width:44px;min-height:40px;cursor:pointer}
 .nav button:disabled{opacity:.4;cursor:default}
-.nav button:focus-visible,.cite:focus-visible,summary:focus-visible{outline:2px solid var(--indigo);outline-offset:2px}
+.nav button:focus-visible,.fn:focus-visible,.src-m a:focus-visible,summary:focus-visible{outline:2px solid var(--indigo);outline-offset:2px}
 .count{font-variant-numeric:tabular-nums;min-width:4em;text-align:center}
 .progress{height:3px;background:var(--line)} .progress span{display:block;height:100%;background:var(--cat-ink);transition:width .2s}
 @media (prefers-reduced-motion:reduce){.progress span{transition:none}}
@@ -147,6 +161,7 @@ function placeMascot(s,n){const src=s.dataset.mascot;if(!src||s.dataset.placed)r
     box.remove();};}
 const _go=go;go=function(n){_go(n);placeMascot(slides[cur-1],cur)};
 placeMascot(slides[cur-1],cur);
+document.addEventListener('click',e=>{const a=e.target.closest('.fn');if(a){e.preventDefault();go(slides.length)}});
 </script>
 </body>
 </html>

diff --git a/tools/slides.py b/tools/slides.py
@@ -379,13 +379,24 @@ def cite_html(sid, e, cards):
     return f'<a class="cite" href="{GITHUB}wiki/sources/{sid}.md" target="_blank" rel="noopener">{html.escape(label)}</a>'
 
 
-def render_line(l, cards):
+def cite_label(sid, e, cards):
+    m = source_meta(sid) or {}
+    page = cards.get(f"{sid}#{e}", {}).get("頁", "")
+    return f"{m.get('author', sid)} {m.get('year', '')}" + (f"，頁 {page}" if page and page not in ("無", "—") else "")
+
+
+def render_line(l, cards, num=None):
+    """出處不放在正文：句尾只留小小的上標編號（同一份資料整份簡報同一個號碼），點了跳到最後的「資料來源」頁。"""
     cites = CITE.findall(l)
     text = html.escape(plain(l))
     text = re.sub(r"\*\*(.+?)\*\*", r"<strong>\1</strong>", text)
-    if cites:
-        links = list(dict.fromkeys(cite_html(s, e, cards) for s, e in cites))  # 同一份資料同一頁只列一次
-        text += ' <span class="cites">（' + "；".join(links) + "）</span>"
+    if cites and num:
+        refs = {}
+        for s, e in cites:
+            refs.setdefault(s, []).append(cite_label(s, e, cards))
+        sups = ",".join(f'<a class="fn" href="#sources" title="{html.escape("；".join(dict.fromkeys(v)))}">{num[s]}</a>' for s, v in sorted(refs.items(), key=lambda kv: num[kv[0]]))
+        # 最後一個字和上標綁在一起，避免編號自己掉到下一行
+        text = re.sub(r"(.)$", r'<span class="nb">\1', text) + f'<sup class="fns">{sups}</sup></span>'
     return text
 
 
@@ -395,6 +406,14 @@ def cmd_build(tid):
     if not pages:
         sys.exit("沒有 script.md")
     cards = parse_cards(tid)
+    num, used = {}, {}
+    for p in pages:
+        for l in p["lines"]:
+            for s, e in CITE.findall(l):
+                num.setdefault(s, len(num) + 1)
+                pg = cards.get(f"{s}#{e}", {}).get("頁", "")
+                if pg and pg not in ("無", "—"):
+                    used.setdefault(s, []).append(pg)
     cat = CAT.get(meta.get("category"), "rice")
     img = meta.get("image")
     secs = []
@@ -412,6 +431,7 @@ def cmd_build(tid):
             say = mz[0].split("｜", 1)[1].strip() if "｜" in mz[0] else ""
             if say: mattr += f' data-say="{html.escape(say)}"'
         inner = ""
+        stamp = f'<span class="no" aria-hidden="true">{p["n"]}</span>'
         if L == "cover":
             sub = html.escape(plain(get("副標：")[0])) if get("副標：") else ""
             pic = f'<img class="cover-img" src="../../assets/img/{img}" alt="{html.escape(str(meta.get("imageAlt", "")))}">' if img else ""
@@ -421,7 +441,7 @@ def cmd_build(tid):
         elif L == "goals":
             items = "".join(f"<li>{html.escape(plain(l))}</li>" for l in lines if re.match(r"^(- |\d+\.)", l))
             other = "".join(f"<p>{html.escape(plain(l))}</p>" for l in lines if not re.match(r"^(- |\d+\.)", l))
-            inner = f"<h2>{title}</h2>{other}<ol class='goals'>{items}</ol>"
+            inner = f"<h2>{stamp}{title}</h2>{other}<ol class='goals'>{items}</ol>"
         elif L == "check":
             qa, q = [], None
             for l in lines:
@@ -429,7 +449,7 @@ def cmd_build(tid):
                     q = l
                 elif l.startswith("答案：") and q:
                     qa.append(f"<li><p>{html.escape(plain(q))}</p><details><summary>看答案</summary><p>{html.escape(plain(l))}</p></details></li>")
-            inner = f"<h2>{title}</h2><ol class='qa'>{''.join(qa)}</ol>"
+            inner = f"<h2>{stamp}{title}</h2><ol class='qa'>{''.join(qa)}</ol>"
         else:
             body = ""
             if L == "number" and get("大數字："):
@@ -439,24 +459,36 @@ def cmd_build(tid):
                          f'<span class="big-label">{html.escape(bm.group(2) or "")}</span></p>')
             if L == "compare":
                 body += ('<div class="compare">' +
-                         "".join(f'<div class="side"><p class="who">{w}</p><p>{render_line(x, cards)}</p></div>'
+                         "".join(f'<div class="side"><p class="who">{w}</p><p>{render_line(x, cards, num)}</p></div>'
                                  for w, x in (("一種說法", get("甲說：")[0]), ("另一種說法", get("乙說：")[0]))) + "</div>")
-            body += "".join(f"<p>{render_line(l, cards)}</p>" for l in rest)
+            body += "".join(f"<p>{render_line(l, cards, num)}</p>" for l in rest)
             if L == "image" and get("圖："):
                 fn, _, cap = plain(get("圖：")[0]).partition("｜")
                 body = (f'<figure><img src="../../assets/img/{html.escape(fn.strip())}" alt="{html.escape(cap.strip())}">'
                         f"<figcaption>{html.escape(cap.strip())}</figcaption></figure>") + body
             if L == "quote":
                 body = f"<blockquote>{body}</blockquote>"
-            inner = f"<h2>{title}</h2>{body}"
+            inner = f"<h2>{stamp}{title}</h2>{body}"
         secs.append(f'<section class="slide layout-{L}"{mattr} id="p{p["n"]}" aria-label="第 {p["n"]} 頁"><div class="inner">{inner}</div></section>')
+    if num:  # 最後一頁：資料來源（不算在 8–10 頁的內容頁裡）
+        items = []
+        for s in num:
+            m = source_meta(s) or {}
+            pgs = "、".join(dict.fromkeys(used.get(s, [])))
+            items.append(f'<li><span class="src-no">{num[s]}</span><div><p class="src-t">{html.escape(str(m.get("author", s)))}（{m.get("year", "")}）〈{html.escape(str(m.get("title", "")))}〉</p>'
+                         f'<p class="src-m">{html.escape(str(m.get("venue", "")))}' + (f"　這份簡報用到：頁 {html.escape(pgs)}" if pgs else "") +
+                         f'　<a href="{GITHUB}wiki/sources/{s}.md" target="_blank" rel="noopener">資料卡</a></p></div></li>')
+        n = len(pages) + 1
+        secs.append(f'<section class="slide layout-sources" id="sources" aria-label="第 {n} 頁：資料來源"><div class="inner">'
+                    f'<h2><span class="no" aria-hidden="true">{n}</span>資料來源</h2><p class="src-hint">內文句尾的小數字對應這裡的編號；滑鼠停在數字上可看到頁碼。</p><ol class="srcs">{"".join(items)}</ol></div></section>')
+    total = len(secs)
     tpl = (ROOT / "templates/deck.html").read_text(encoding="utf-8")
     out = (tpl.replace("{{TITLE}}", html.escape(meta["title"])).replace("{{CAT}}", cat)
            .replace("{{SLIDES}}", "\n".join(secs))
            .replace("{{WIKI}}", f"{GITHUB}wiki/topics/{tid}.md")
-           .replace("{{TOTAL}}", str(len(pages))))
+           .replace("{{TOTAL}}", str(total)))
     (d(tid) / "deck.html").write_text(out, encoding="utf-8")
-    print(f"已產生 slides/{tid}/deck.html（{len(pages)} 頁）")
+    print(f"已產生 slides/{tid}/deck.html（內容 {len(pages)} 頁＋資料來源 1 頁）")
 
 
 # ---------------- ⑧ 渲染檢查 ----------------

diff --git a/wiki/log.md b/wiki/log.md
@@ -69,3 +69,9 @@
 - 改版：三個角色各 4 個姿勢（番薯仔導覽、米粒妹發問、豬仔搞笑），改 Q 版粉彩畫風、英文提示詞（中文輸入常打錯字）；舊木刻版移到 assets/mascots-舊版1-木刻/
 - 逐頁稿格式改成「吉祥物：角色/姿勢@位置｜台詞」；檢查台詞不可有數字、≤24 字，吉祥物最多六成頁數；有吉祥物的頁讓出一欄給角色
 - 執行時發現：3 個 haiku 同時用 Gemini，輸入框草稿會在分頁間同步、下載檔也被對調一張；改成一次一個代理，並且每張下載後先開圖確認再改名
+
+## [2026-11-18] rule | 出處改成上標＋資料來源頁
+- 使用者意見：正文裡的出處註太多也太醜
+- 改為句尾小上標編號（同一份資料整份簡報同一號，滑鼠停留顯示作者、年份、頁碼），點了跳到最後一頁「資料來源」：列出每份資料的書目、這份簡報用到的頁碼、wiki 資料卡連結。逐頁稿仍然每句標 [s-...#E..]，檢查不變，只改顯示
+- 用 frontend-design 調整版面：每頁標題前加圓形「配給印」頁碼（呼應封面配給券），其他維持安靜；段落行寬縮到 36em
+- 資料來源頁第一次排成一欄時溢出，渲染檢查擋下，改兩欄
